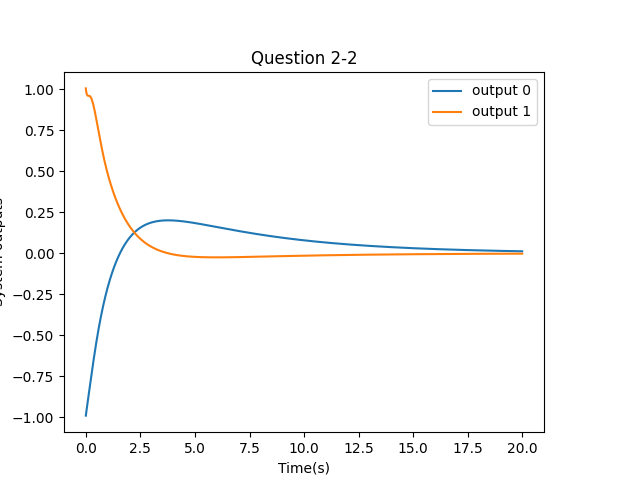
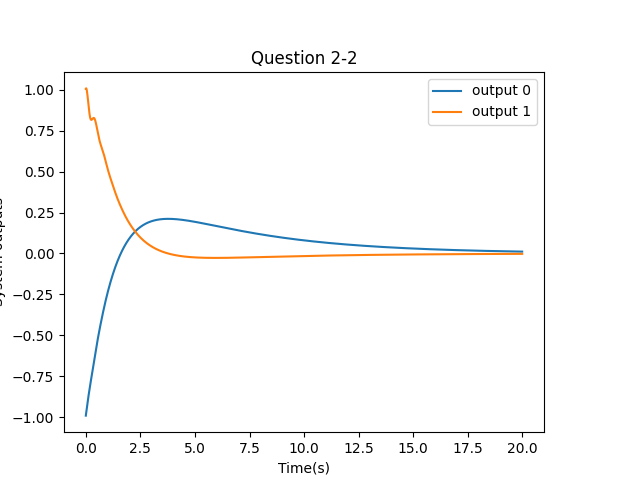
Used a makefile to cache results

diff --git a/scripts/NonLinearFragment.py b/scripts/NonLinearFragment.py
@@ -4,10 +4,14 @@ from math import cos, sin, pi
 import json
 
 
-def nonLinearUpdate(x: np.matrix, r: np.matrix, k: np.matrix, config: json, dt: float) -> np.matrix:
+def nonLinearUpdate(x: np.matrix,
+                    r: np.matrix,
+                    k: np.matrix,
+                    config: json,
+                    dt: float) -> np.matrix:
     """
-    This function is used to model the non-linear system, this will throw an exception if
-    there is a rollover
+    This function is used to model the non-linear system, this will throw an
+    exception if there is a rollover
     """
     # a list of variables that make my life easier
     dot_y = x.item((1, 0))
@@ -20,7 +24,7 @@ def nonLinearUpdate(x: np.matrix, r: np.matrix, k: np.matrix, config: json, dt: 
     L = float(config["l"])
     g = float(config["g"])
 
-    # non-linear functions
+    # non linear update code
     accels = inv(np.matrix([
         [M+m, m*L*cos(theta)],
         [cos(theta), L]

diff --git a/scripts/results/three_three.tex b/scripts/results/three_three.tex
@@ -6,10 +6,14 @@ from math import cos, sin, pi
 import json
 
 
-def nonLinearUpdate(x: np.matrix, r: np.matrix, k: np.matrix, config: json, dt: float) -> np.matrix:
+def nonLinearUpdate(x: np.matrix,
+                    r: np.matrix,
+                    k: np.matrix,
+                    config: json,
+                    dt: float) -> np.matrix:
     """
-    This function is used to model the non-linear system, this will throw an exception if
-    there is a rollover
+    This function is used to model the non-linear system, this will throw an
+    exception if there is a rollover
     """
     # a list of variables that make my life easier
     dot_y = x.item((1, 0))
@@ -22,7 +26,7 @@ def nonLinearUpdate(x: np.matrix, r: np.matrix, k: np.matrix, config: json, dt: 
     L = float(config["l"])
     g = float(config["g"])
 
-    # non-linear functions
+    # non linear update code
     accels = inv(np.matrix([
         [M+m, m*L*cos(theta)],
         [cos(theta), L]

diff --git a/scripts/Model.py b/scripts/Model.py
@@ -80,7 +80,7 @@ def linearFullObserverWithFeedback(system: Tuple[np.matrix],
     x_e = deepcopy(x_e_0)
     y_e = np.zeros((C.shape[0], 1))
     k = np.matrix(k)
-    # A_est = A - L*C
+    A_est = A - L*C
     for r in inputs:
         # feedback step
         u = r - (k*x_e)
@@ -89,7 +89,7 @@ def linearFullObserverWithFeedback(system: Tuple[np.matrix],
         x = _linearUpdate(x, u, (A, B, C, D), dt)
         y = _linearOutput(x, u, (A, B, C, D), dt)
         # estimator step
-        dot_x_e = (A*x_e) + (B*u) + L*(y-y_e)
+        dot_x_e = (A_est*x_e) + (B*r) + L*y
         x_e = x_e + (dot_x_e*dt)
         y_e = (C*x_e) + D
         outputs.append(y)

diff --git a/content.tex b/content.tex
@@ -1,7 +1,7 @@
 
 This final was made with python and latex. There are scripts that produce latex fragments and images, these
 are linked into the main document with the subimport package. if you wish to change some of the inputs and mess
-with the output you can do so in the various json files, located in scripts//resources. To see instructions
+with the output you can do so in the various json files, located in scripts/resources. To see instructions
 for how to build easily see the README.md file
 
 
